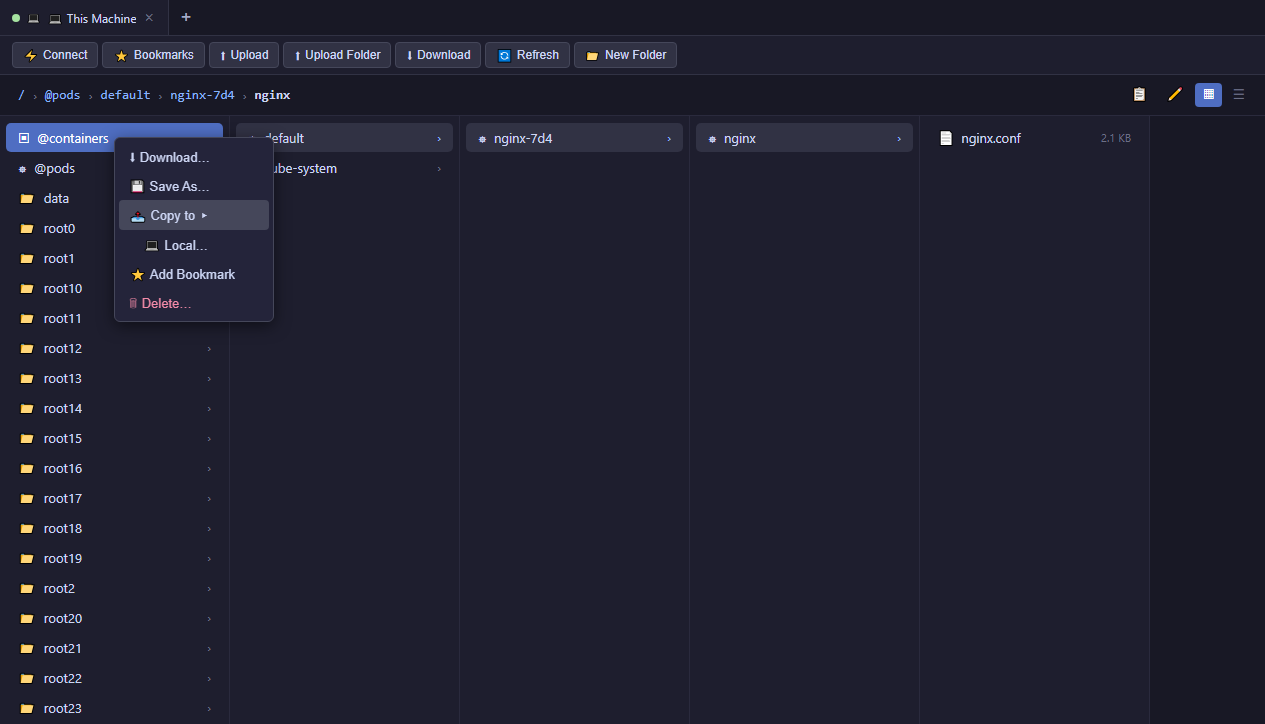
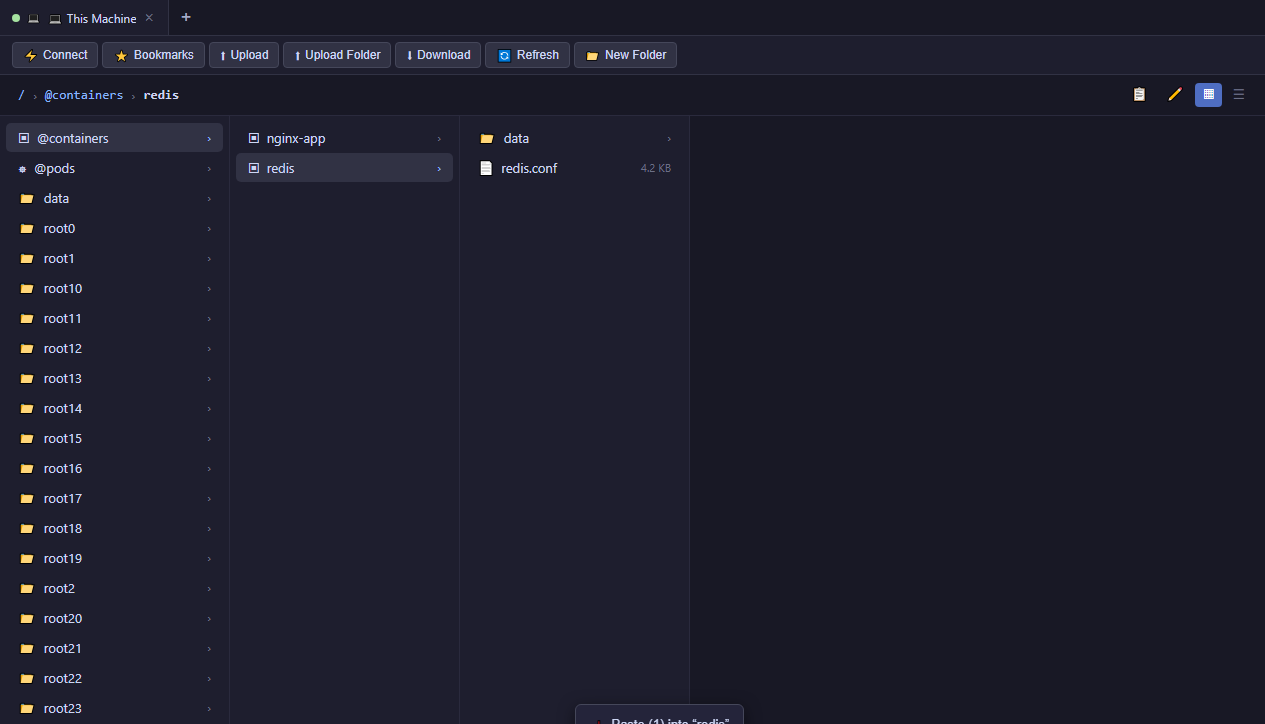
Unify copy UX around Copy/Paste; add blank-area menu; fix refresh
- Remove the redundant 'Copy to' submenu: Download... covers save-to-
  local, Copy/Paste and tab drag-drop cover cross-session copies
- Right-clicking blank space in a column or the list opens a directory
  menu: Paste into that dir, New Folder..., Refresh; left-clicking
  blank space clears the selection
- Panels now refresh when remote-to-remote transfers complete (paste
  results appear immediately)

diff --git a/src/components/browser/RemotePanel.vue b/src/components/browser/RemotePanel.vue
@@ -5,7 +5,7 @@ import { open, save, ask, message } from '@tauri-apps/plugin-dialog'
 import { useTabsStore } from '@/stores/tabs'
 import { useTransferStore } from '@/stores/transfer'
 import { useClipboardStore } from '@/stores/clipboard'
-import { listDir, uploadFiles, downloadFiles, downloadFileAs, previewFile, saveFileContent, saveBookmark, removeEntry, transferRemote } from '@/composables/useTauri'
+import { listDir, mkDir, uploadFiles, downloadFiles, downloadFileAs, previewFile, saveFileContent, saveBookmark, removeEntry, transferRemote } from '@/composables/useTauri'
 import type { FileEntry, FilePreview } from '@/types/filesystem'
 import type { Bookmark } from '@/types/connection'
 
@@ -40,14 +40,20 @@ function setViewMode(mode: ViewMode) {
   viewMode.value = mode
   localStorage.setItem('viewMode', mode)
 }
-const ctxMenu = ref<{ visible: boolean; x: number; y: number; entry: FileEntry | null }>({
+const ctxMenu = ref<{
+  visible: boolean
+  x: number
+  y: number
+  entry: FileEntry | null
+  /** Directory a blank-area menu targets (Paste / New Folder). */
+  dir: string | null
+}>({
   visible: false,
   x: 0,
   y: 0,
   entry: null,
+  dir: null,
 })
-/** Expanded state of the "Copy to" submenu inside the context menu. */
-const ctxCopyToOpen = ref(false)
 const preview = ref<{
   entry: FileEntry | null
   loading: boolean
@@ -568,7 +574,7 @@ function onListContextMenu(entry: FileEntry, event: MouseEvent) {
     selectedPaths.value.clear()
     selectedPaths.value.add(entry.path)
   }
-  ctxMenu.value = { visible: true, x: event.clientX, y: event.clientY, entry }
+  ctxMenu.value = { visible: true, x: event.clientX, y: event.clientY, entry, dir: null }
 }
 
 // Context menu
@@ -580,12 +586,23 @@ function onEntryContextMenu(colIndex: number, entry: FileEntry, event: MouseEven
     const col = columns.value[colIndex]
     if (col) col.selectedPath = entry.path
   }
-  ctxMenu.value = { visible: true, x: event.clientX, y: event.clientY, entry }
+  ctxMenu.value = { visible: true, x: event.clientX, y: event.clientY, entry, dir: null }
+}
+
+/** Right-click on the blank area of a column / the list: dir-level menu. */
+function onBlankContextMenu(dir: string, event: MouseEvent) {
+  previewCtxMenu.value.visible = false
+  ctxMenu.value = { visible: true, x: event.clientX, y: event.clientY, entry: null, dir }
+}
+
+/** Left-click on blank space clears the selection. */
+function onBlankClick() {
+  selectedPaths.value.clear()
+  selectionAnchor.value = null
 }
 
 function hideCtxMenu() {
   ctxMenu.value.visible = false
-  ctxCopyToOpen.value = false
   previewCtxMenu.value.visible = false
   pathCtxMenu.value.visible = false
 }
@@ -642,15 +659,6 @@ async function ctxDownload() {
   }
 }
 
-/** Other connected tabs that can receive a cross-endpoint copy. */
-const copyToTargets = computed(() =>
-  tabsStore.tabs.filter(
-    (t) => t.status === 'connected' && t.sessionId && t.sessionId !== sessionId.value
-  )
-)
-
-const KIND_ICONS: Record<string, string> = { ssh: '⌁', local: '💻' }
-
 /** Icons for virtual container/pod dirs, falling back to file/folder. */
 function entryIcon(e: FileEntry): string {
   if (e.name === '@containers') return '▣'
@@ -662,20 +670,6 @@ function entryIcon(e: FileEntry): string {
   return e.isDir ? '📁' : '📄'
 }
 
-async function ctxCopyToTab(dstSessionId: string, dstDir: string) {
-  hideCtxMenu()
-  const sid = sessionId.value
-  const targets = selectedFiles.value.map((f) => f.path)
-  if (!sid || targets.length === 0) return
-  try {
-    await transferRemote(sid, targets, dstSessionId, dstDir)
-    await transferStore.syncTasks()
-  } catch (e) {
-    console.error('Copy to session failed:', e)
-    await message(`Copy failed: ${e}`, { title: 'Copy to', kind: 'error' })
-  }
-}
-
 /** Mark the selection for a later Paste (in any session). */
 function ctxCopyFiles() {
   const sid = sessionId.value
@@ -685,13 +679,14 @@ function ctxCopyFiles() {
   clipboard.set(sid, targets, tabsStore.activeTab?.label ?? '')
 }
 
-/** Paste into the right-clicked folder, or the current directory. */
+/** Paste into the right-clicked folder/blank dir, or the current directory. */
 async function ctxPasteFiles() {
   const entry = ctxMenu.value.entry
+  const blankDir = ctxMenu.value.dir
   hideCtxMenu()
   const sid = sessionId.value
   if (!sid || !clipboard.sessionId || clipboard.paths.length === 0) return
-  const destDir = entry?.isDir ? entry.path : currentPath.value
+  const destDir = entry?.isDir ? entry.path : blankDir ?? currentPath.value
   try {
     await transferRemote(clipboard.sessionId, [...clipboard.paths], sid, destDir)
     await transferStore.syncTasks()
@@ -705,8 +700,31 @@ async function ctxPasteFiles() {
 const pasteTargetName = computed(() => {
   const entry = ctxMenu.value.entry
   if (entry?.isDir) return entry.name
-  return currentPath.value.split('/').filter(Boolean).pop() ?? '/'
+  const dir = ctxMenu.value.dir ?? currentPath.value
+  return dir.split('/').filter(Boolean).pop() ?? '/'
 })
+
+/** New folder inside the blank-clicked directory. */
+async function ctxNewFolder() {
+  const dir = ctxMenu.value.dir ?? currentPath.value
+  hideCtxMenu()
+  const sid = sessionId.value
+  if (!sid) return
+  const name = prompt('New folder name:')
+  if (!name?.trim()) return
+  try {
+    await mkDir(sid, dir === '/' ? `/${name.trim()}` : `${dir}/${name.trim()}`)
+    await refresh()
+  } catch (e) {
+    console.error('Create folder failed:', e)
+    await message(`Create folder failed: ${e}`, { title: 'New Folder', kind: 'error' })
+  }
+}
+
+function ctxRefresh() {
+  hideCtxMenu()
+  refresh()
+}
 
 /** Drag files out of the panel: payload consumed by tabs (cross-session copy). */
 function onEntryDragStart(entry: FileEntry, event: DragEvent) {
@@ -967,8 +985,20 @@ watch(viewMode, () => {
 
     <div class="body" ref="bodyEl">
       <!-- Finder-style Miller columns -->
-      <div v-if="viewMode === 'columns'" v-show="!previewMaximized" class="columns">
-        <div v-for="(col, colIndex) in columns" :key="col.path" class="column">
+      <div
+        v-if="viewMode === 'columns'"
+        v-show="!previewMaximized"
+        class="columns"
+        @click.self="onBlankClick"
+        @contextmenu.self.prevent="onBlankContextMenu(currentPath, $event)"
+      >
+        <div
+          v-for="(col, colIndex) in columns"
+          :key="col.path"
+          class="column"
+          @click.self="onBlankClick"
+          @contextmenu.self.prevent="onBlankContextMenu(col.path, $event)"
+        >
           <div v-if="col.loading" class="col-loading">Loading...</div>
           <template v-else>
             <div
@@ -999,7 +1029,13 @@ watch(viewMode, () => {
       </div>
 
       <!-- Windows Explorer-style details list -->
-      <div v-else v-show="!previewMaximized" class="list-view">
+      <div
+        v-else
+        v-show="!previewMaximized"
+        class="list-view"
+        @click.self="onBlankClick"
+        @contextmenu.self.prevent="onBlankContextMenu(currentPath, $event)"
+      >
         <div v-if="listLoading" class="col-loading">Loading...</div>
         <template v-else>
           <div class="file-header">
@@ -1138,17 +1174,13 @@ watch(viewMode, () => {
       :style="{ left: ctxMenu.x + 'px', top: ctxMenu.y + 'px' }"
       @click.stop
     >
-      <button class="ctx-item" @click="ctxDownload">⬇ Download…</button>
-      <button
-        class="ctx-item"
-        :disabled="!ctxMenu.entry"
-        @click="ctxSaveAs"
-      >
-        💾 Save As…
-      </button>
-      <button class="ctx-item" @click="ctxCopyFiles">
-        📋 Copy{{ selectedFiles.length > 1 ? ` (${selectedFiles.length} items)` : '' }}
-      </button>
+      <template v-if="ctxMenu.entry">
+        <button class="ctx-item" @click="ctxDownload">⬇ Download…</button>
+        <button class="ctx-item" @click="ctxSaveAs">💾 Save As…</button>
+        <button class="ctx-item" @click="ctxCopyFiles">
+          📋 Copy{{ selectedFiles.length > 1 ? ` (${selectedFiles.length} items)` : '' }}
+        </button>
+      </template>
       <button
         class="ctx-item"
         :disabled="!clipboard.sessionId || clipboard.paths.length === 0"
@@ -1157,33 +1189,18 @@ watch(viewMode, () => {
       >
         📥 Paste{{ clipboard.paths.length ? ` (${clipboard.paths.length})` : '' }} into “{{ pasteTargetName }}”
       </button>
-      <button
-        class="ctx-item"
-        @click.stop="ctxCopyToOpen = !ctxCopyToOpen"
-      >
-        📤 Copy to{{ selectedFiles.length > 1 ? ` (${selectedFiles.length} items)` : '' }} ▸
-      </button>
-      <template v-if="ctxCopyToOpen">
-        <button class="ctx-item ctx-sub" @click="ctxDownload">
-          💻 Local…
-        </button>
-        <button
-          v-for="t in copyToTargets"
-          :key="t.id"
-          class="ctx-item ctx-sub"
-          :title="`${t.label} — ${t.currentPath}`"
-          @click="ctxCopyToTab(t.sessionId!, t.currentPath)"
-        >
-          {{ KIND_ICONS[t.kind] ?? '⌁' }} {{ t.label }}
-          <span class="ctx-sub-path">{{ t.currentPath }}</span>
-        </button>
+      <template v-if="!ctxMenu.entry">
+        <button class="ctx-item" @click="ctxNewFolder">📁 New Folder…</button>
+        <button class="ctx-item" @click="ctxRefresh">🔄 Refresh</button>
       </template>
+      <template v-if="ctxMenu.entry">
       <button class="ctx-item" @click="ctxAddBookmark">
         ⭐ Add Bookmark{{ ctxMenu.entry && !ctxMenu.entry.isDir ? ' (folder)' : '' }}
       </button>
       <button class="ctx-item ctx-danger" @click="ctxDelete">
         🗑 Delete{{ selectedFiles.length > 1 ? ` (${selectedFiles.length} items)` : '' }}…
       </button>
+      </template>
     </div>
 
     <!-- Preview copy menu -->
@@ -1714,22 +1731,5 @@ watch(viewMode, () => {
 .ctx-item:disabled {
   opacity: 0.4;
   cursor: not-allowed;
-}
-
-.ctx-item.ctx-sub {
-  padding-left: 24px;
-  display: flex;
-  align-items: center;
-  gap: 6px;
-  overflow: hidden;
-}
-
-.ctx-sub-path {
-  color: #6c7086;
-  font-size: 11px;
-  font-family: monospace;
-  overflow: hidden;
-  text-overflow: ellipsis;
-  white-space: nowrap;
 }
 </style>

diff --git a/src/App.vue b/src/App.vue
@@ -52,7 +52,7 @@ onMounted(async () => {
         if (e.payload.status === 'completed') {
           const task = transferStore.tasks.find((t) => t.id === e.payload.taskId)
           // Refresh unless we know it was a download (remote dir unchanged)
-          if (!task || task.direction === 'upload') {
+          if (!task || task.direction === 'upload' || task.direction === 'remote') {
             remotePanelRef.value?.refresh()
           }
         }
